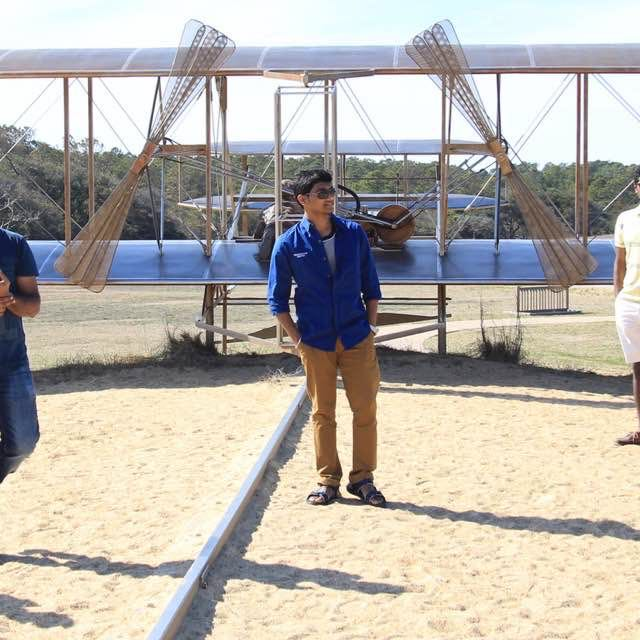
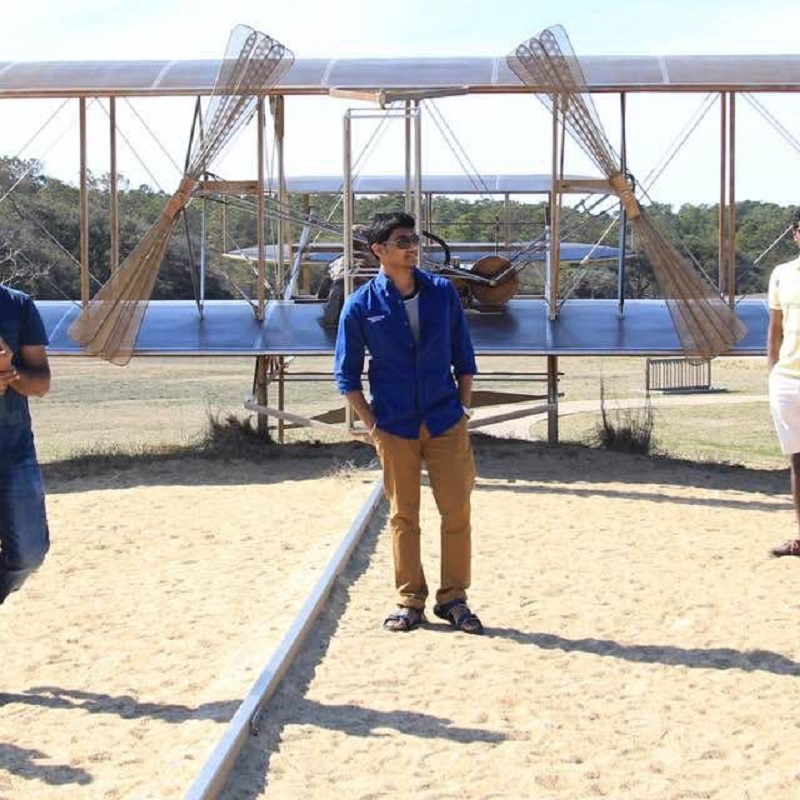
change

diff --git a/index.html b/index.html
@@ -355,8 +355,8 @@
                         <img alt="" src="images/portfolio/plane.jpg">
                         <div class="overlay">
                            <div class="portfolio-item-meta">
-          					      <h5>Coffee</h5>
-                              <p>Illustrration</p>
+          					      <h5>Me and Plane</h5>
+                              <p>#Style</p>
           					   </div>
                         </div>
                         <div class="link-icon"><i class="icon-plus"></i></div>
@@ -494,7 +494,7 @@
 
          <div id="modal-01" class="popup-modal mfp-hide">
 
-		      <img class="scale-with-grid" src="images/portfolio/modals/m-coffee.jpg" alt="" />
+		      <img class="scale-with-grid" src="images/portfolio/modals/m-plane.jpg" alt="" />
 
 		      <div class="description-box">
 			      <h4>Me and Plane</h4>
